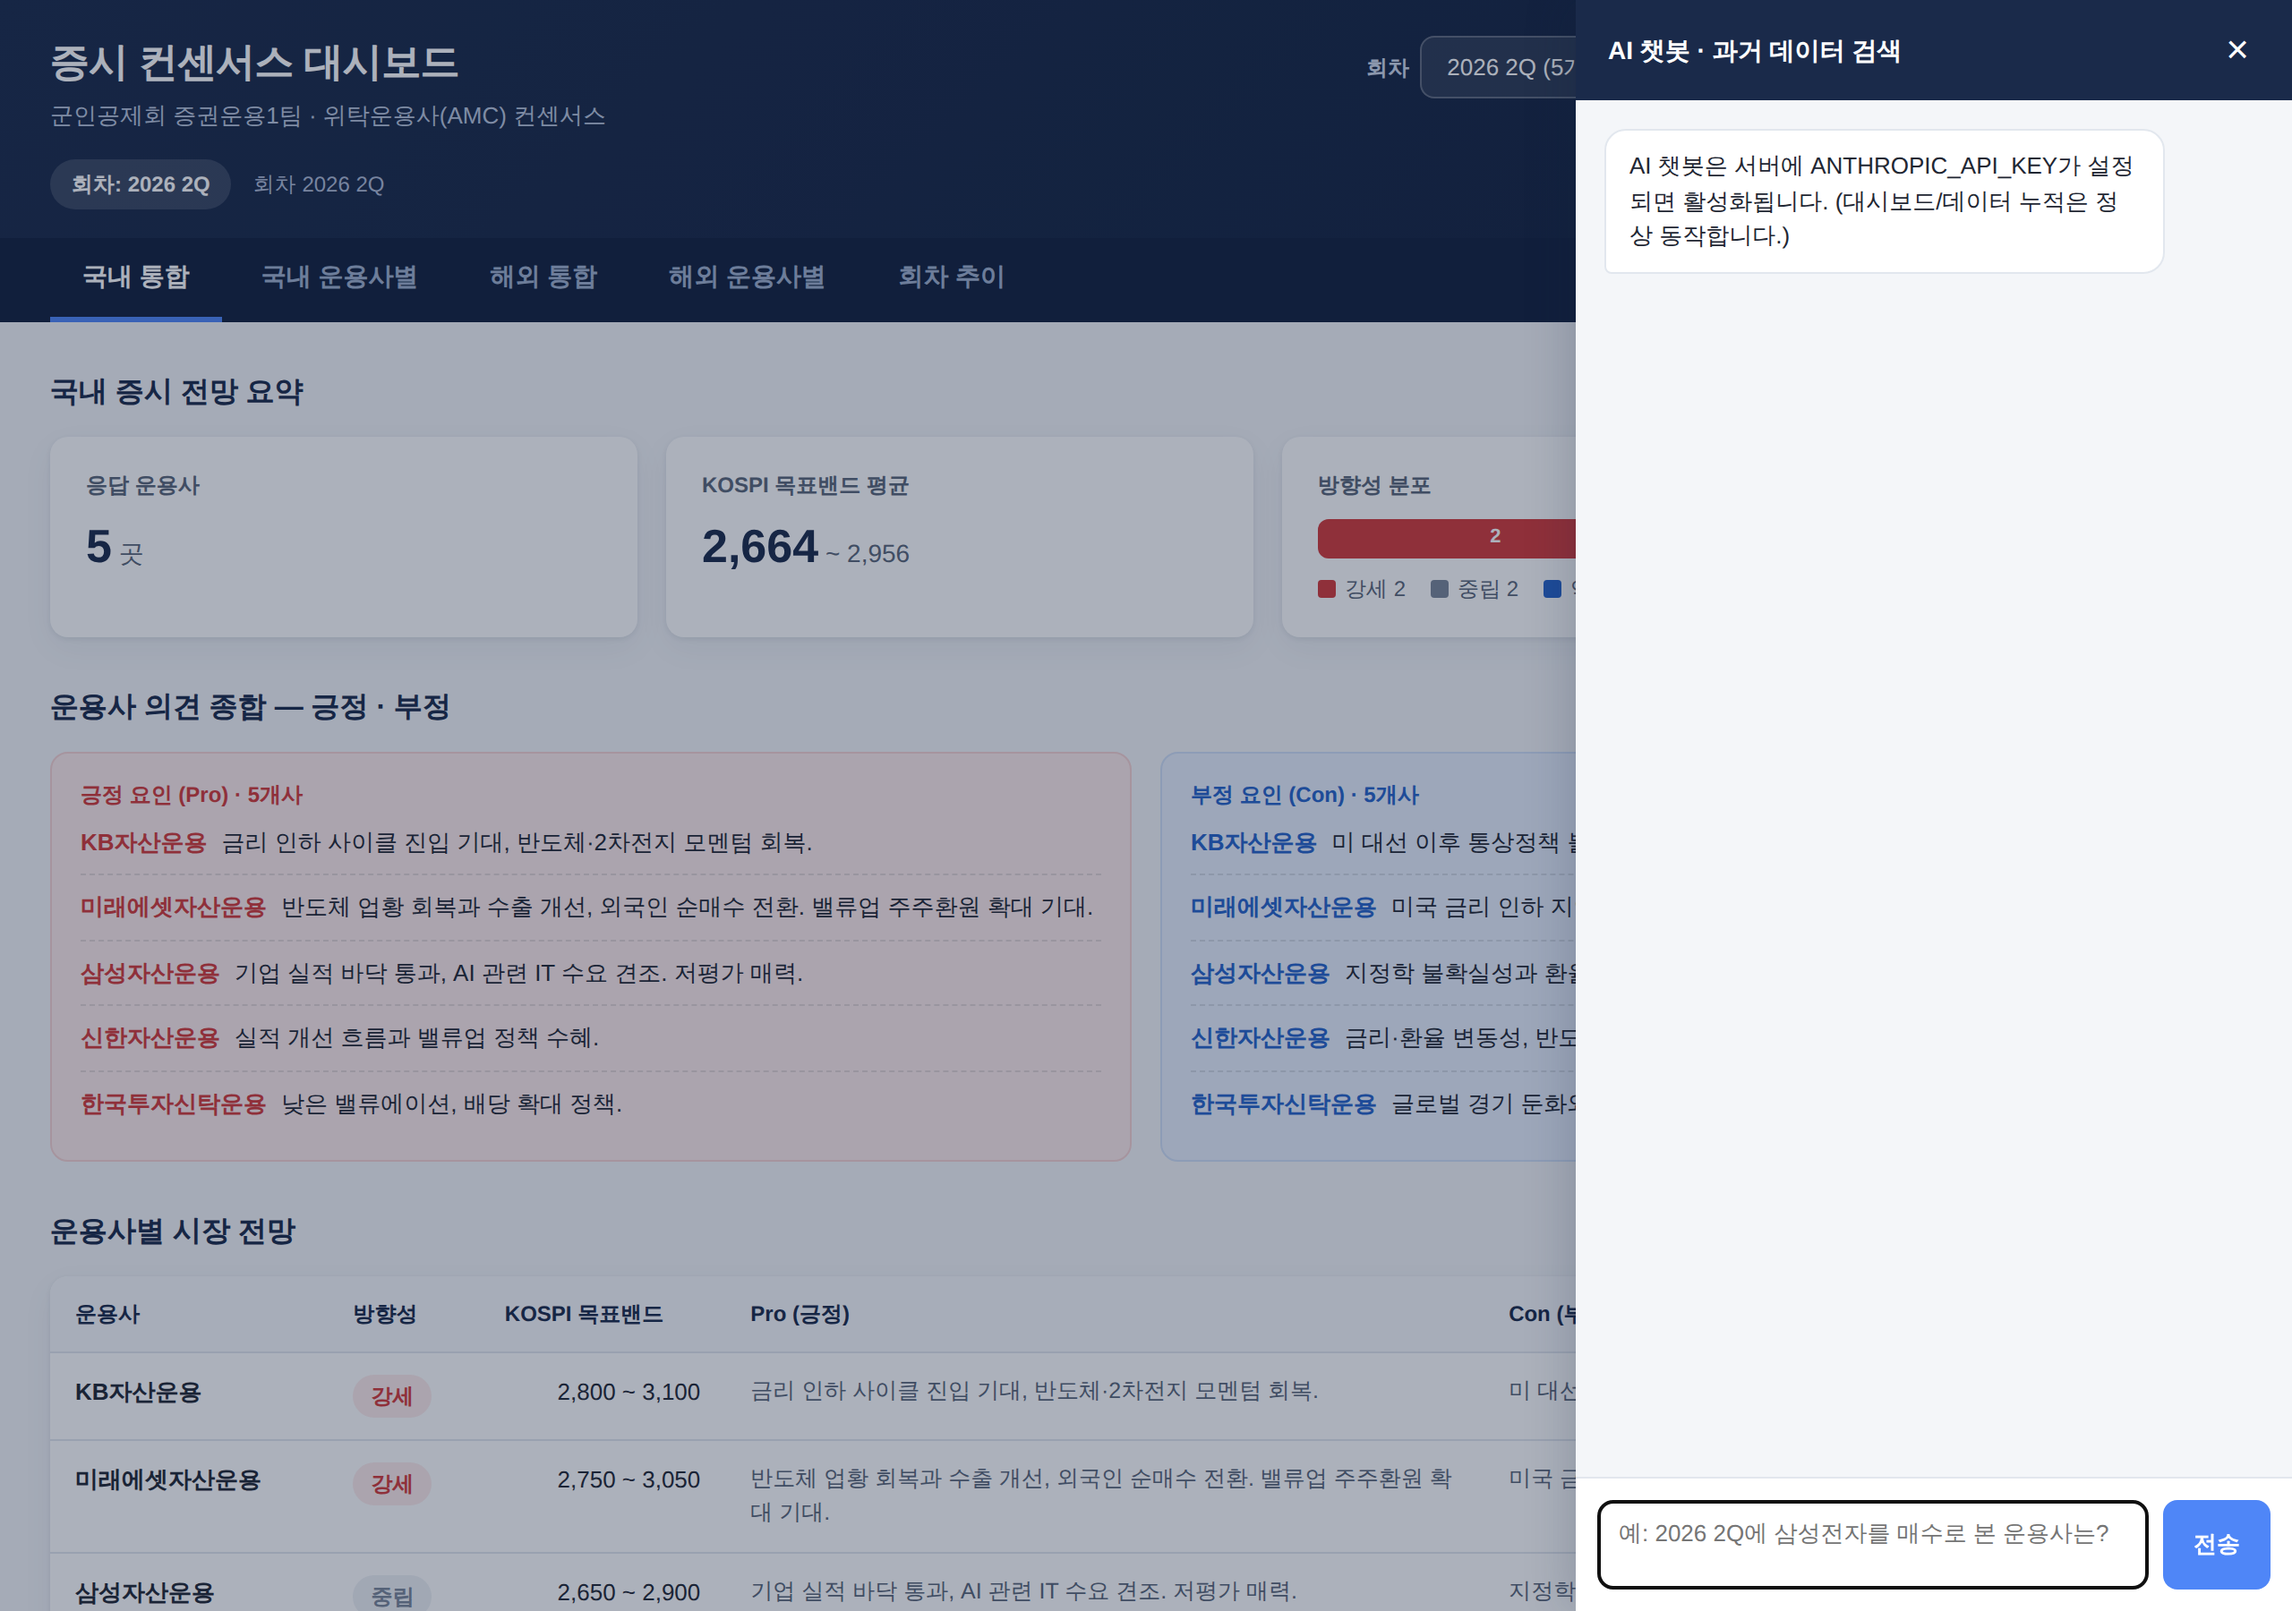
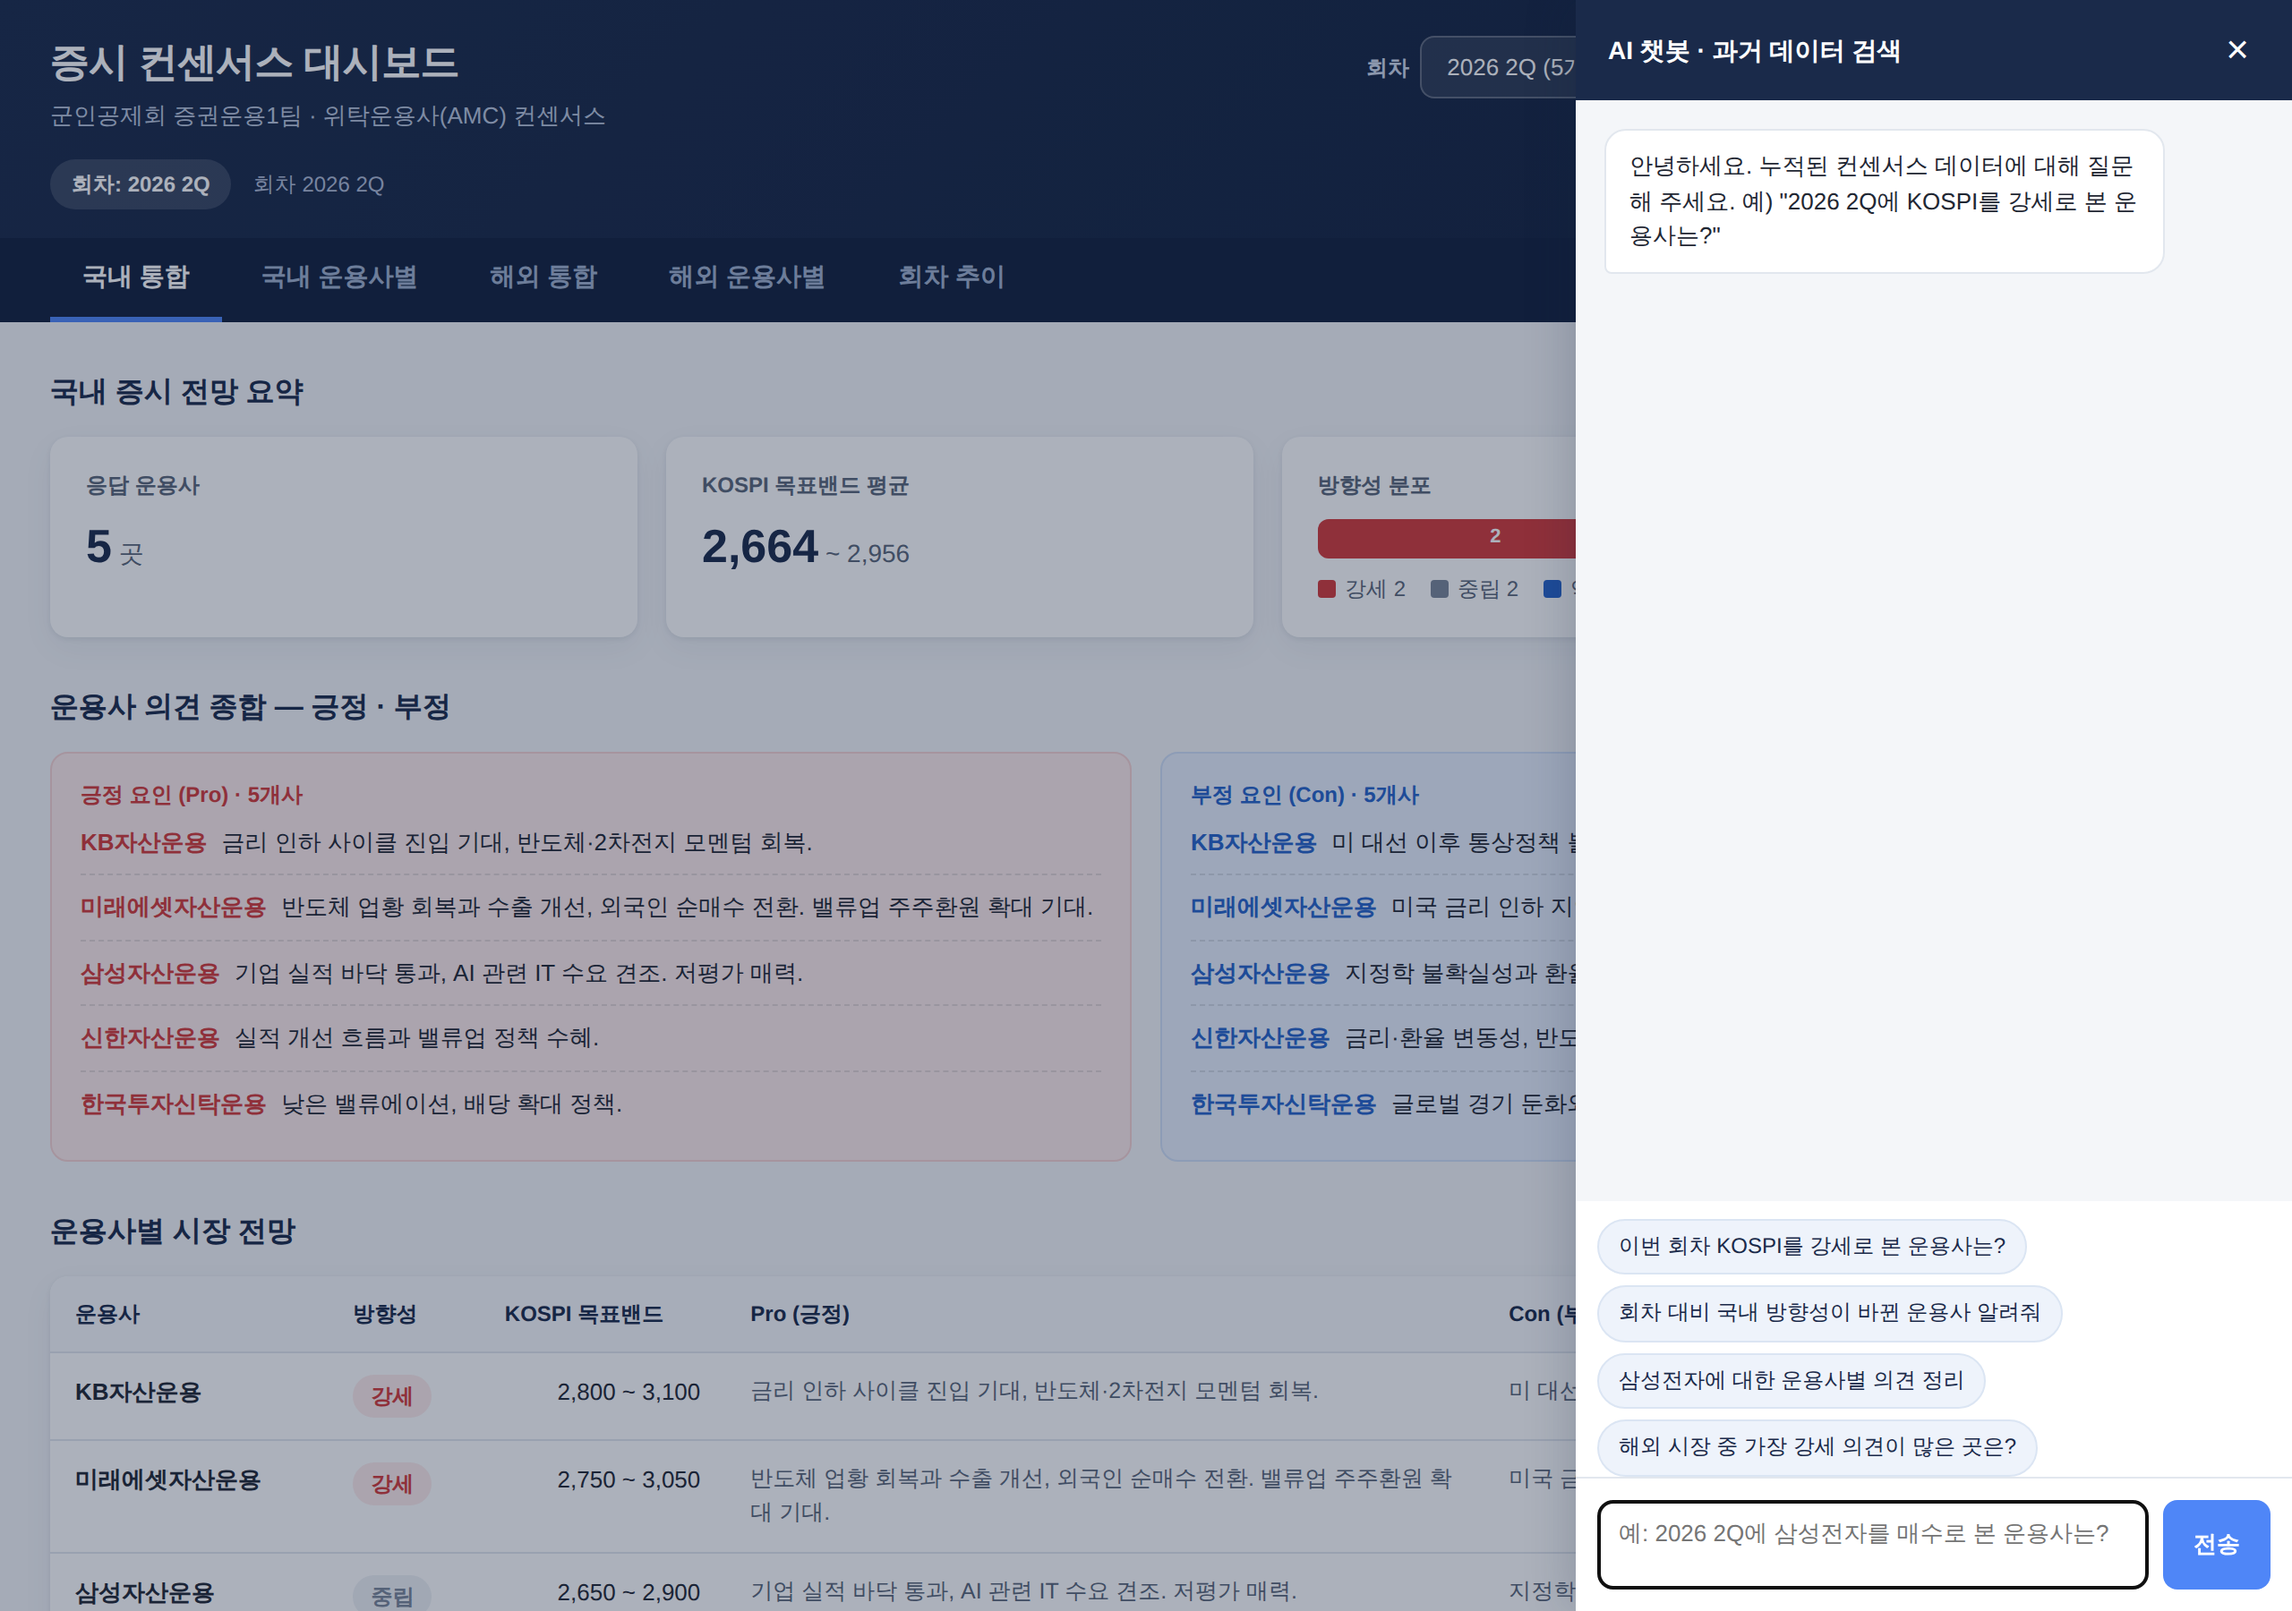
원클릭 실행(.env/start.bat) + 챗봇 응답·추천질문 개선
변경 1 — 원클릭 실행 / 비밀키 분리:
- server/env.js: .env 를 process.env 로 로드 (server.js 최상단 import, chat.js 보다 먼저)
- server/.env.example: 키/모델/포트 템플릿 (.env 는 gitignore)
- server/start.bat: 더블클릭 실행. corp-ca.pem 있으면 NODE_EXTRA_CA_CERTS,
  없으면 NODE_TLS_REJECT_UNAUTHORIZED=0 자동 분기 + 최초 npm install
- .gitignore: *.pem, *.crt 추가

변경 2 — 챗봇 다듬기:
- chat.js: SYSTEM 프롬프트 개선(결론 먼저·근거(운용사/회차) 표기·데이터 구조 안내·간결)
- 챗봇 드로어에 추천 질문 칩 추가(클릭 시 즉시 질의)

Claude-Session: https://claude.ai/code/session_01T3CGtEJa8RnDZjiXtgMDFx

Changed region(s): [[0.6875, 0.8089, 0.9062, 0.9022], [0.7188, 0.0933, 0.9375, 0.1556], [0.7188, 0.7467, 0.875, 0.7778]]

diff --git a/public/js/app.js b/public/js/app.js
@@ -615,6 +615,25 @@
   }
 
   // ---------- AI 챗봇 ----------
+  var CHAT_SUGGESTIONS = [
+    '이번 회차 KOSPI를 강세로 본 운용사는?',
+    '회차 대비 국내 방향성이 바뀐 운용사 알려줘',
+    '삼성전자에 대한 운용사별 의견 정리',
+    '해외 시장 중 가장 강세 의견이 많은 곳은?'
+  ];
+  function renderSuggest() {
+    var box = el('chat-suggest');
+    if (!box) return;
+    box.innerHTML = CHAT_SUGGESTIONS.map(function (q) {
+      return '<button type="button" class="chat-chip">' + esc(q) + '</button>';
+    }).join('');
+    box.querySelectorAll('.chat-chip').forEach(function (b) {
+      b.addEventListener('click', function () {
+        el('chat-input').value = b.textContent;
+        sendChat();
+      });
+    });
+  }
   function openChat(open) {
     el('chat-drawer').classList.toggle('is-open', open);
     el('chat-drawer').setAttribute('aria-hidden', open ? 'false' : 'true');
@@ -672,6 +691,7 @@
     el('chat-input').addEventListener('keydown', function (e) {
       if (e.key === 'Enter' && !e.shiftKey) { e.preventDefault(); sendChat(); }
     });
+    renderSuggest();
     el('period-select').addEventListener('change', function () {
       if (backend && this.value) { currentPeriod = this.value; loadConsensus(this.value); }
     });

diff --git a/server/env.js b/server/env.js
@@ -1,0 +1,16 @@
+// .env 로더 — server/.env 가 있으면 process.env 로 로드한다.
+// ⚠ 반드시 다른 모듈(특히 chat.js, db.js)보다 먼저 import 되어야 한다.
+//    chat.js 가 import 시점에 ANTHROPIC_API_KEY 를 읽기 때문.
+import { fileURLToPath } from 'node:url';
+import { dirname, join } from 'node:path';
+
+const __dirname = dirname(fileURLToPath(import.meta.url));
+
+try {
+  // Node 22.13+ 내장. .env 없으면 throw → 조용히 무시.
+  process.loadEnvFile(join(__dirname, '.env'));
+  // (NODE_TLS_REJECT_UNAUTHORIZED / NODE_EXTRA_CA_CERTS 는 node 기동 전에
+  //  설정해야 확실히 적용되므로 .env 가 아닌 start.bat 에서 처리한다.)
+} catch {
+  // .env 미존재 — 환경변수를 직접 설정해 실행하는 경우에도 정상 동작.
+}

diff --git a/public/css/styles.css b/public/css/styles.css
@@ -247,3 +247,12 @@ code { background: rgba(0,0,0,0.06); padding: 1px 5px; border-radius: 4px; font-
 .chat-form { display: flex; gap: 8px; padding: 12px; border-top: 1px solid var(--gray-line); background: #fff; }
 .chat-form textarea { flex: 1; resize: none; font-size: 13px; padding: 9px 11px; border-radius: 8px; border: 1px solid var(--gray-line); font-family: inherit; }
 .chat-form .btn { align-self: stretch; }
+
+/* ---------- Chat suggestion chips ---------- */
+.chat-suggest { display: flex; flex-wrap: wrap; gap: 6px; padding: 10px 12px 0; background: #fff; }
+.chat-chip {
+  font-size: 12px; line-height: 1.3; text-align: left;
+  padding: 7px 11px; border-radius: 16px; cursor: pointer;
+  background: #eef3fb; color: var(--navy); border: 1px solid #dbe5f3;
+}
+.chat-chip:hover { background: #e2ebf8; }

diff --git a/public/index.html b/public/index.html
@@ -53,6 +53,7 @@
       <button id="chat-close" class="chat-close" type="button" aria-label="닫기">×</button>
     </div>
     <div id="chat-messages" class="chat-messages"></div>
+    <div id="chat-suggest" class="chat-suggest"></div>
     <form id="chat-form" class="chat-form">
       <textarea id="chat-input" rows="2" placeholder="예: 2026 2Q에 삼성전자를 매수로 본 운용사는?"></textarea>
       <button type="submit" class="btn btn-primary">전송</button>

diff --git a/server/server.js b/server/server.js
@@ -1,5 +1,6 @@
 // AMC 증시 컨센서스 대시보드 — 백엔드 서버
 // 정적 프론트엔드 서빙 + 데이터 저장소(SQLite) API + AI 챗봇 API
+import './env.js'; // ⚠ 최상단: .env 를 chat.js 보다 먼저 로드
 import express from 'express';
 import { fileURLToPath } from 'node:url';
 import { dirname, join } from 'node:path';

diff --git a/README.md b/README.md
@@ -31,13 +31,24 @@ npm start        # http://localhost:3000
   (미설정 시 챗봇만 비활성화되고 나머지 기능은 정상 동작.)
 - 백엔드 없이 `public/index.html`을 브라우저에서 바로 열면 **샘플 데이터(오프라인)** 로 화면만 미리볼 수 있습니다.
 
-Windows PowerShell 예시:
-```powershell
-cd server
-npm install
-$env:ANTHROPIC_API_KEY="sk-ant-..."   # AI 챗봇 사용 시
-npm start
-```
+### Windows — 원클릭 실행 (권장)
+
+매번 환경변수를 입력하지 않도록 `.env` + `start.bat`를 사용합니다.
+
+1. **API 키 저장** — `server\.env.example` 을 같은 폴더에 `.env` 로 복사하고 키 입력:
+   ```powershell
+   cd server
+   Copy-Item .env.example .env
+   notepad .env      # ANTHROPIC_API_KEY= 뒤에 실제 키 붙여넣고 저장
+   ```
+   - `.env` 는 git에 올라가지 않습니다(비밀키 보호).
+2. **실행** — `server\start.bat` **더블클릭** (또는 `./start.bat`).
+   - 최초 1회는 자동으로 `npm install` 후 실행됩니다.
+   - 브라우저에서 http://localhost:3000
+
+> **사내망 TLS 검사 대응:** `start.bat` 는 서버 폴더에 `corp-ca.pem`(회사 루트 인증서)이 있으면
+> 이를 신뢰(`NODE_EXTRA_CA_CERTS`)해 안전하게 외부 호출하고, 없으면 임시로 TLS 검증을 끄고 실행합니다.
+> 정식 운영 시 IT부서에서 회사 루트 인증서를 받아 `server\corp-ca.pem` 으로 저장하세요(이 파일도 git 미포함).
 
 ## 사용 흐름
 
